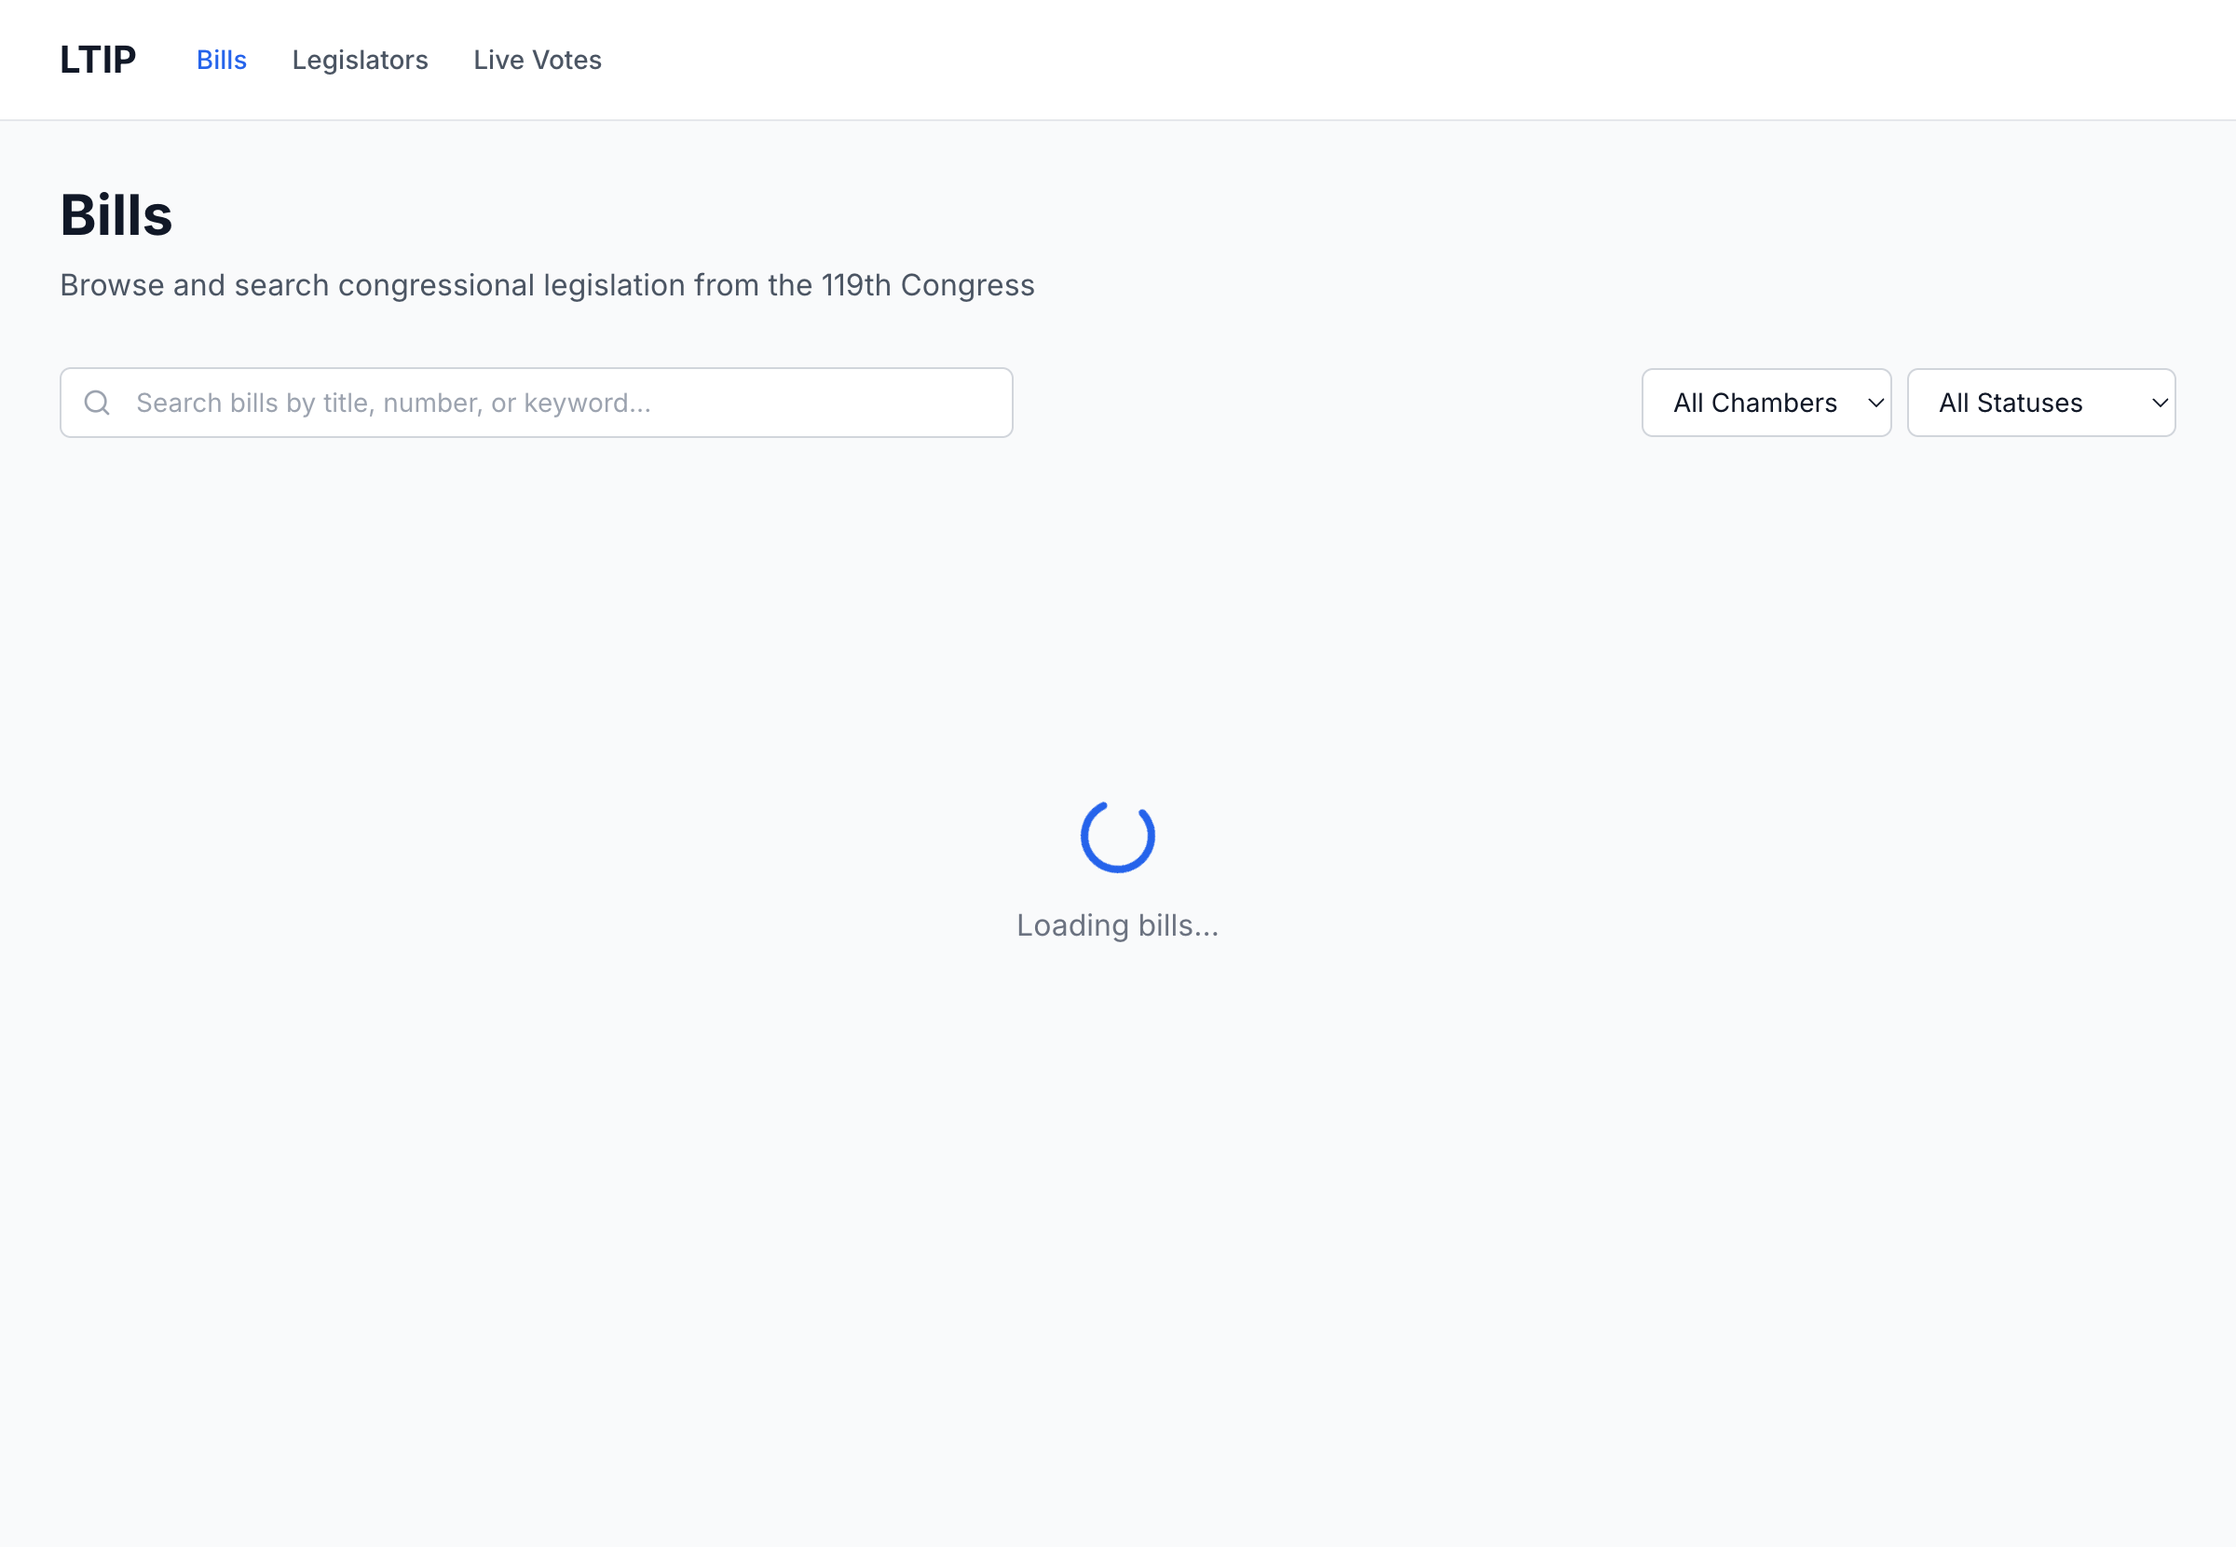
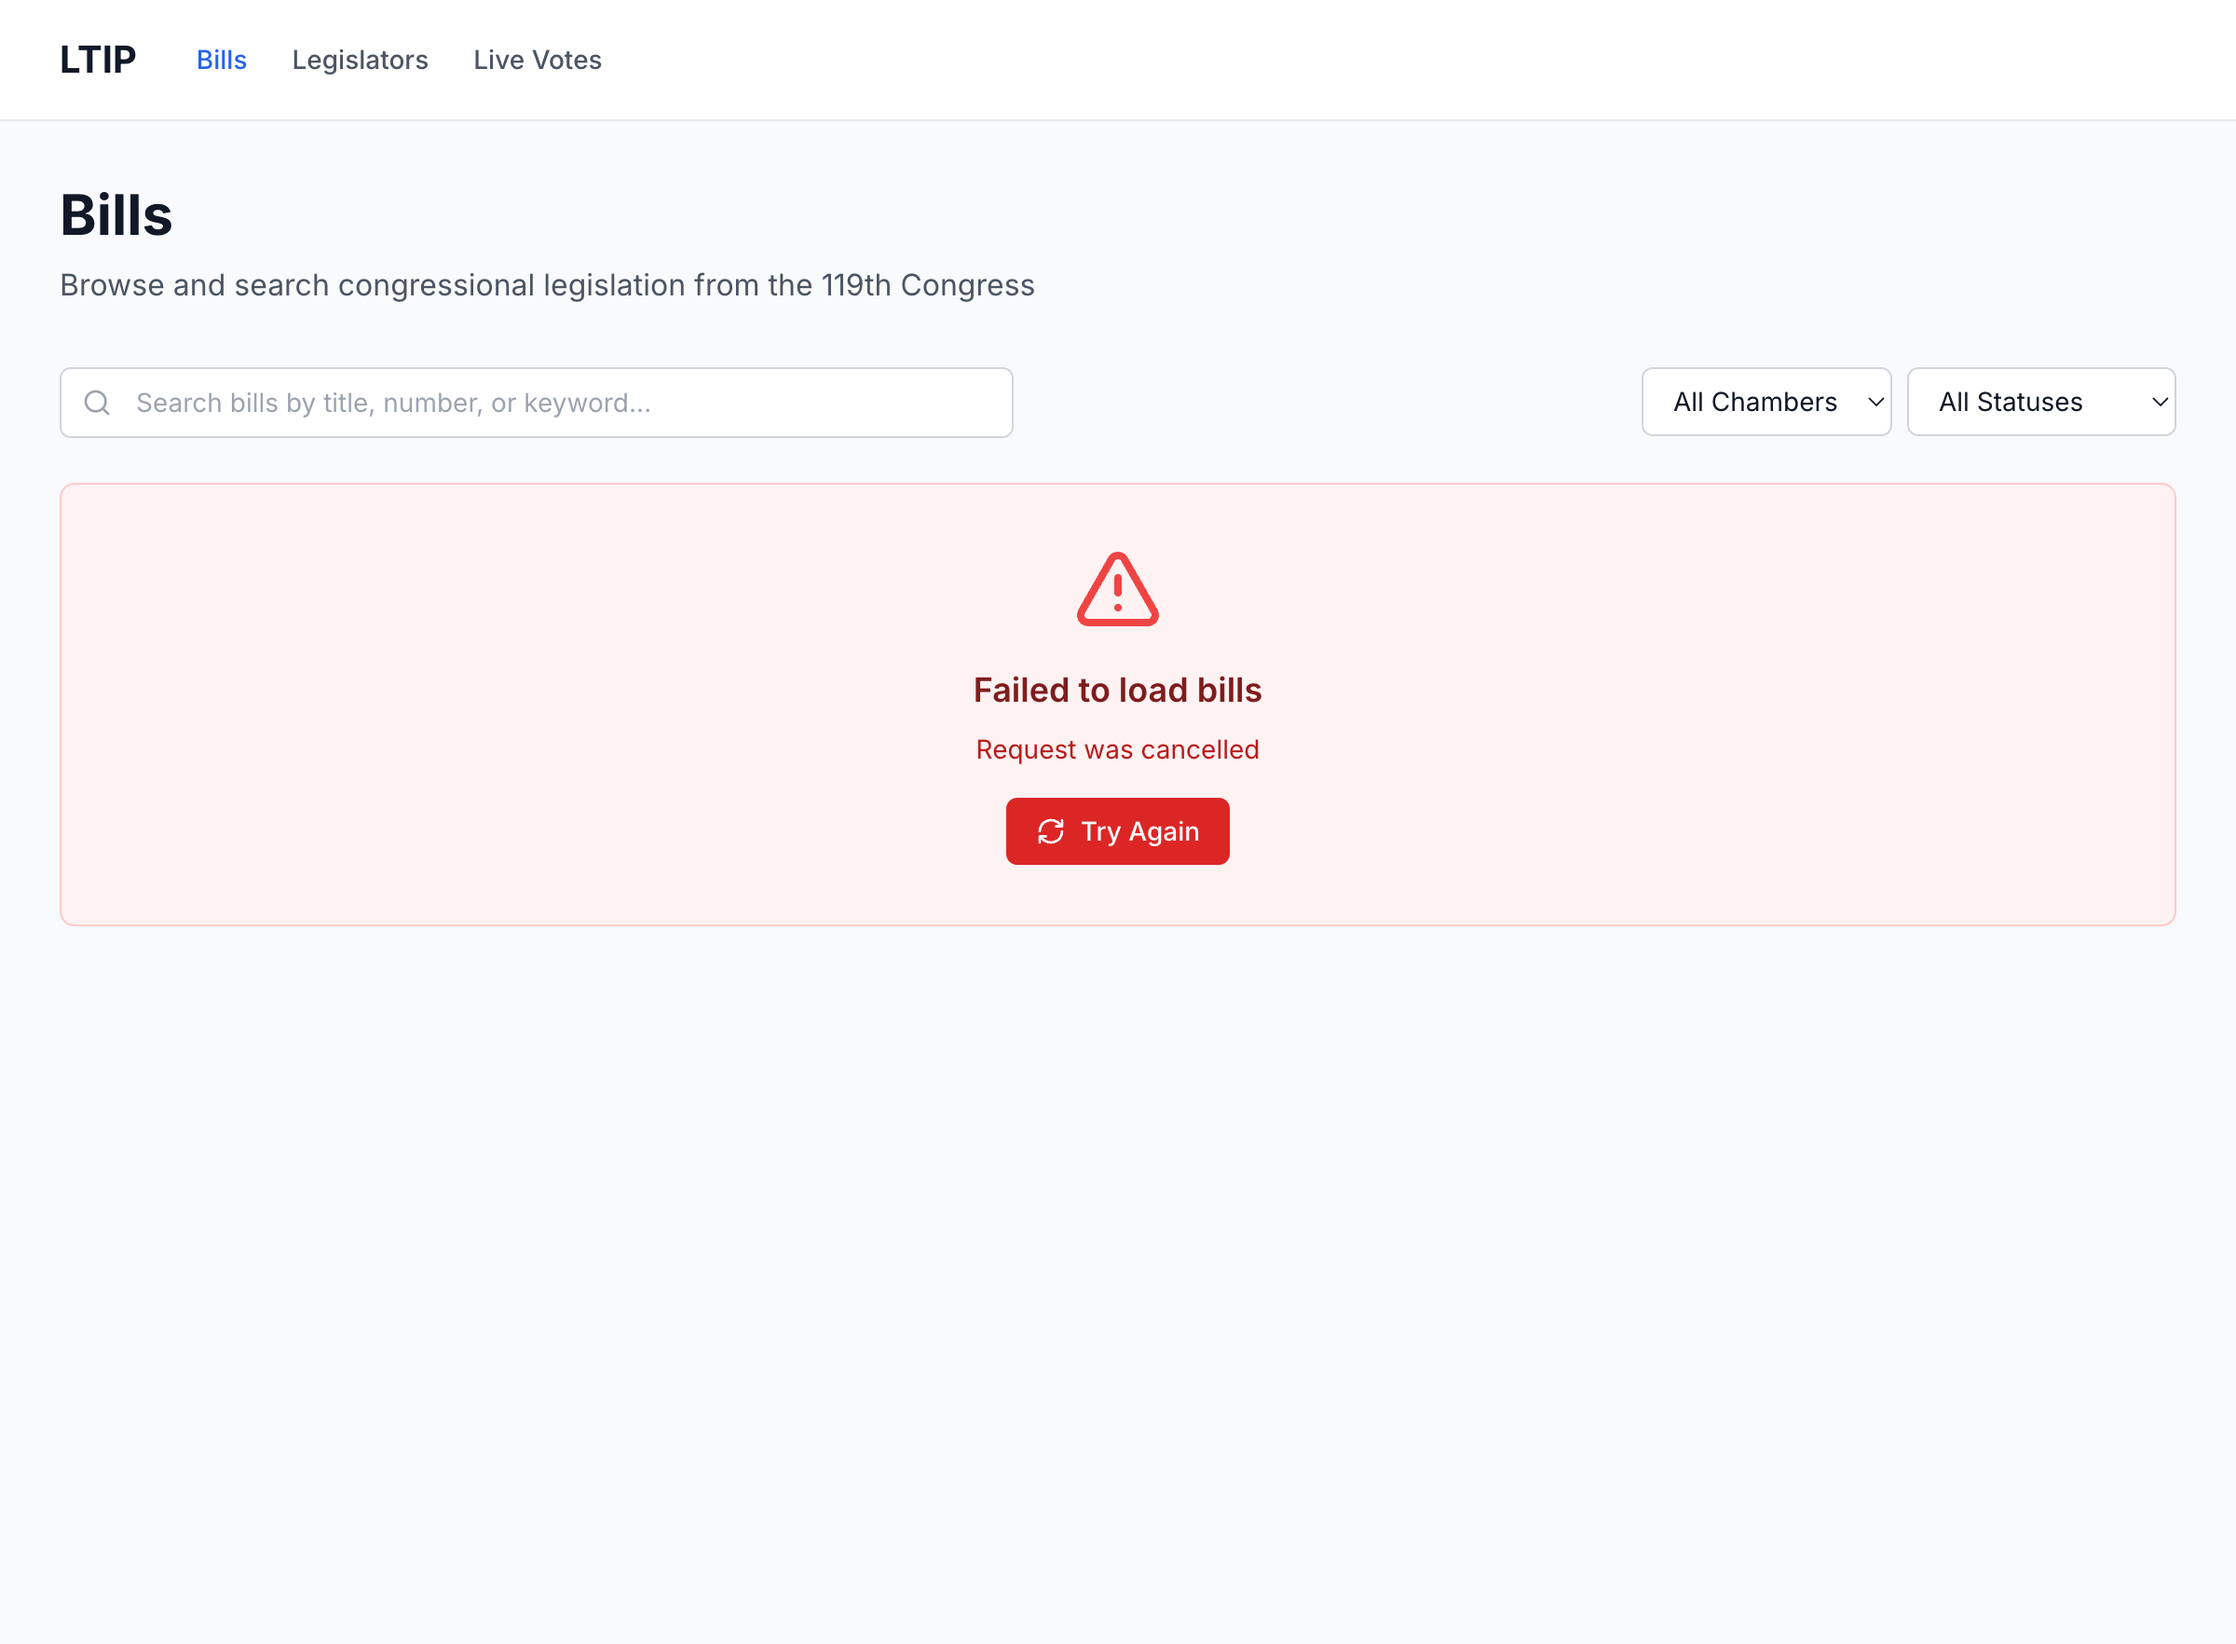
docs(cr): add CR-010 k6 load tests and update screenshots
CR-010 documents the k6 performance testing work for Issue #9:
- 6 load test scripts covering 22 API endpoints
- Bug fixes for URL prefixes and auth.js scope error
- Acceptance criteria tracking and risk assessment

Screenshots updated for current application state.

diff --git a/docs/change-control/2026-02-04-cr-010-k6-load-tests.md b/docs/change-control/2026-02-04-cr-010-k6-load-tests.md
@@ -1,0 +1,132 @@
+# CR-010: k6 Load Test Scripts for API Performance Testing
+
+**Date**: 2026-02-04
+**Status**: Completed
+**Priority**: P3
+**Related Issue**: #9 ([P3-PERFORMANCE] Create k6 Load Test Scripts)
+**Branch**: `feature/issue-9-k6-load-tests`
+
+---
+
+## Summary
+
+Created comprehensive k6 load test scripts covering all 22 API endpoints across 6 resource domains (Bills, Legislators, Votes, Conflicts, Auth, Analysis). Fixed critical URL prefix bug and auth.js scope error discovered during validation.
+
+---
+
+## Changes
+
+### New Files (committed at 40beb16)
+
+| File | Description | Endpoints Covered |
+|------|-------------|-------------------|
+| `tests/performance/bills.js` | Bills API load test | 7 endpoints (list, detail, sponsors, cosponsors, actions, text, related) |
+| `tests/performance/legislators.js` | Legislators API load test | 3 endpoints (list, detail, committees) |
+| `tests/performance/votes.js` | Votes API load test | 3 endpoints (list, detail, breakdown) |
+| `tests/performance/conflicts.js` | Conflicts API load test | 2 endpoints (list, detail) |
+| `tests/performance/auth.js` | Auth API load test | 5 endpoints (register, login, refresh, logout, profile) |
+| `tests/performance/analysis.js` | Analysis API load test | 2 endpoints (get, generate) |
+| `tests/performance/BASELINE_METRICS.md` | Performance baseline targets | All endpoints documented |
+| `tests/performance/README.md` | Usage documentation | Installation, profiles, CI/CD |
+
+### Bug Fixes (committed at e021228)
+
+1. **URL Prefix Mismatch (P1)**
+   - All k6 scripts (except auth.js) used `/api/{resource}` instead of `/api/v1/{resource}`
+   - Every request would have returned 404 against the live API
+   - Fixed across 5 JS files + BASELINE_METRICS.md (67 occurrences corrected)
+   - `/api/health` correctly left unversioned
+
+2. **auth.js `__ITER` Scope Error**
+   - `__VU` and `__ITER` were read at module scope; these are k6 execution context variables only available inside the default VU function
+   - Caused `ReferenceError: __ITER is not defined` at script parse time
+   - Moved reads into `generateTestUser()` function body
+
+### Additional Fix (committed at 37bfdde)
+
+3. **BillFilters Test Alignment**
+   - Test expected 500-char validation limit but shared Zod schema uses 200
+   - Changed `'a'.repeat(501)` to `'a'.repeat(201)` and updated expected error message
+
+---
+
+## Test Coverage per Script
+
+| Script | Load Profiles | Custom Metrics | Scenarios | Health Check |
+|--------|--------------|----------------|-----------|--------------|
+| bills.js | light/medium/heavy | 7 Trends, Rate, Counter | 4 weighted scenarios | Yes |
+| legislators.js | light/medium/heavy | 3 Trends, Rate, Counter | 3 weighted scenarios | Yes |
+| votes.js | light/medium/heavy | 3 Trends, Rate, Counter | 3 weighted scenarios | Yes |
+| conflicts.js | light/medium/heavy | 2 Trends, Rate, Counter | 2 weighted scenarios | Yes |
+| auth.js | light/medium/heavy | 5 Trends, Rate, Counter | 4 weighted scenarios | Yes |
+| analysis.js | light/medium/heavy | 2 Trends, Rate, Counter | 2 weighted scenarios | Yes |
+
+---
+
+## Load Profile Details
+
+| Profile | VU Ramp | Duration | Use Case |
+|---------|---------|----------|----------|
+| light | 5-10 VUs | ~1 min | Development smoke tests |
+| medium | 20-50 VUs | ~2 min | CI/CD regression testing |
+| heavy | 50-100 VUs | ~3 min | Capacity planning |
+
+---
+
+## Validation
+
+- All 6 scripts pass `k6 inspect` (syntax/parse validation)
+- All URL prefixes verified: 0 unversioned API paths, 67 correct `/api/v1/` occurrences
+- Baseline execution blocked by API server import error (`@ltip/shared/validation` export issue)
+- Web tests: 424/424 passing (100%)
+
+---
+
+## Acceptance Criteria Status (Issue #9)
+
+| Criteria | Status | Notes |
+|----------|--------|-------|
+| Homepage load test | N/A | Not applicable (frontend, not API) |
+| Bill listing API load test | Done | bills.js covers 7 endpoints with throughput metrics |
+| Search API load test | Done | Covered via bills.js search parameter scenarios |
+| Authentication flow stress test | Done | auth.js covers full auth lifecycle |
+| WebSocket connection test | Pending | Requires WebSocket infrastructure (not yet implemented) |
+| Success rate, response time, throughput metrics | Done | Custom Trends, Rates, Counters per endpoint |
+| Grafana dashboard | Pending | Requires Grafana + k6 Cloud/InfluxDB setup |
+| CI/CD integration | Documented | README.md includes GitHub Actions workflow example |
+
+---
+
+## Commits
+
+| Hash | Type | Description |
+|------|------|-------------|
+| `40beb16` | test | Add k6 load test scripts for 22 API endpoints |
+| `37bfdde` | fix | Align BillFilters validation test with 200-char shared schema |
+| `e021228` | fix | Correct k6 load test URL prefixes and auth.js scope error |
+
+---
+
+## Screenshots
+
+| Page | File | Description |
+|------|------|-------------|
+| Homepage | `docs/screenshots/01-homepage.png` | Landing page with feature cards and stats |
+| Bills | `docs/screenshots/02-bills-page.png` | Bills page with filters and error state (API down) |
+| Legislators | `docs/screenshots/03-legislators-page.png` | Legislators page with chamber/party/state filters |
+| Votes | `docs/screenshots/04-votes-page.png` | Live votes page with chamber/result filters |
+
+---
+
+## Risk Assessment
+
+| Risk | Severity | Mitigation |
+|------|----------|------------|
+| API server not running (import error) | Medium | Baselines pending; scripts validated via k6 inspect |
+| Test data uses sample IDs that may not exist | Low | Scripts handle 404s gracefully |
+| Conflicts/Analysis APIs not implemented | Low | Scripts test current behavior (empty/404 responses) |
+
+---
+
+**Author**: ODIN Agent (Issue #9 - Performance Testing)
+**Reviewer**: Pending
